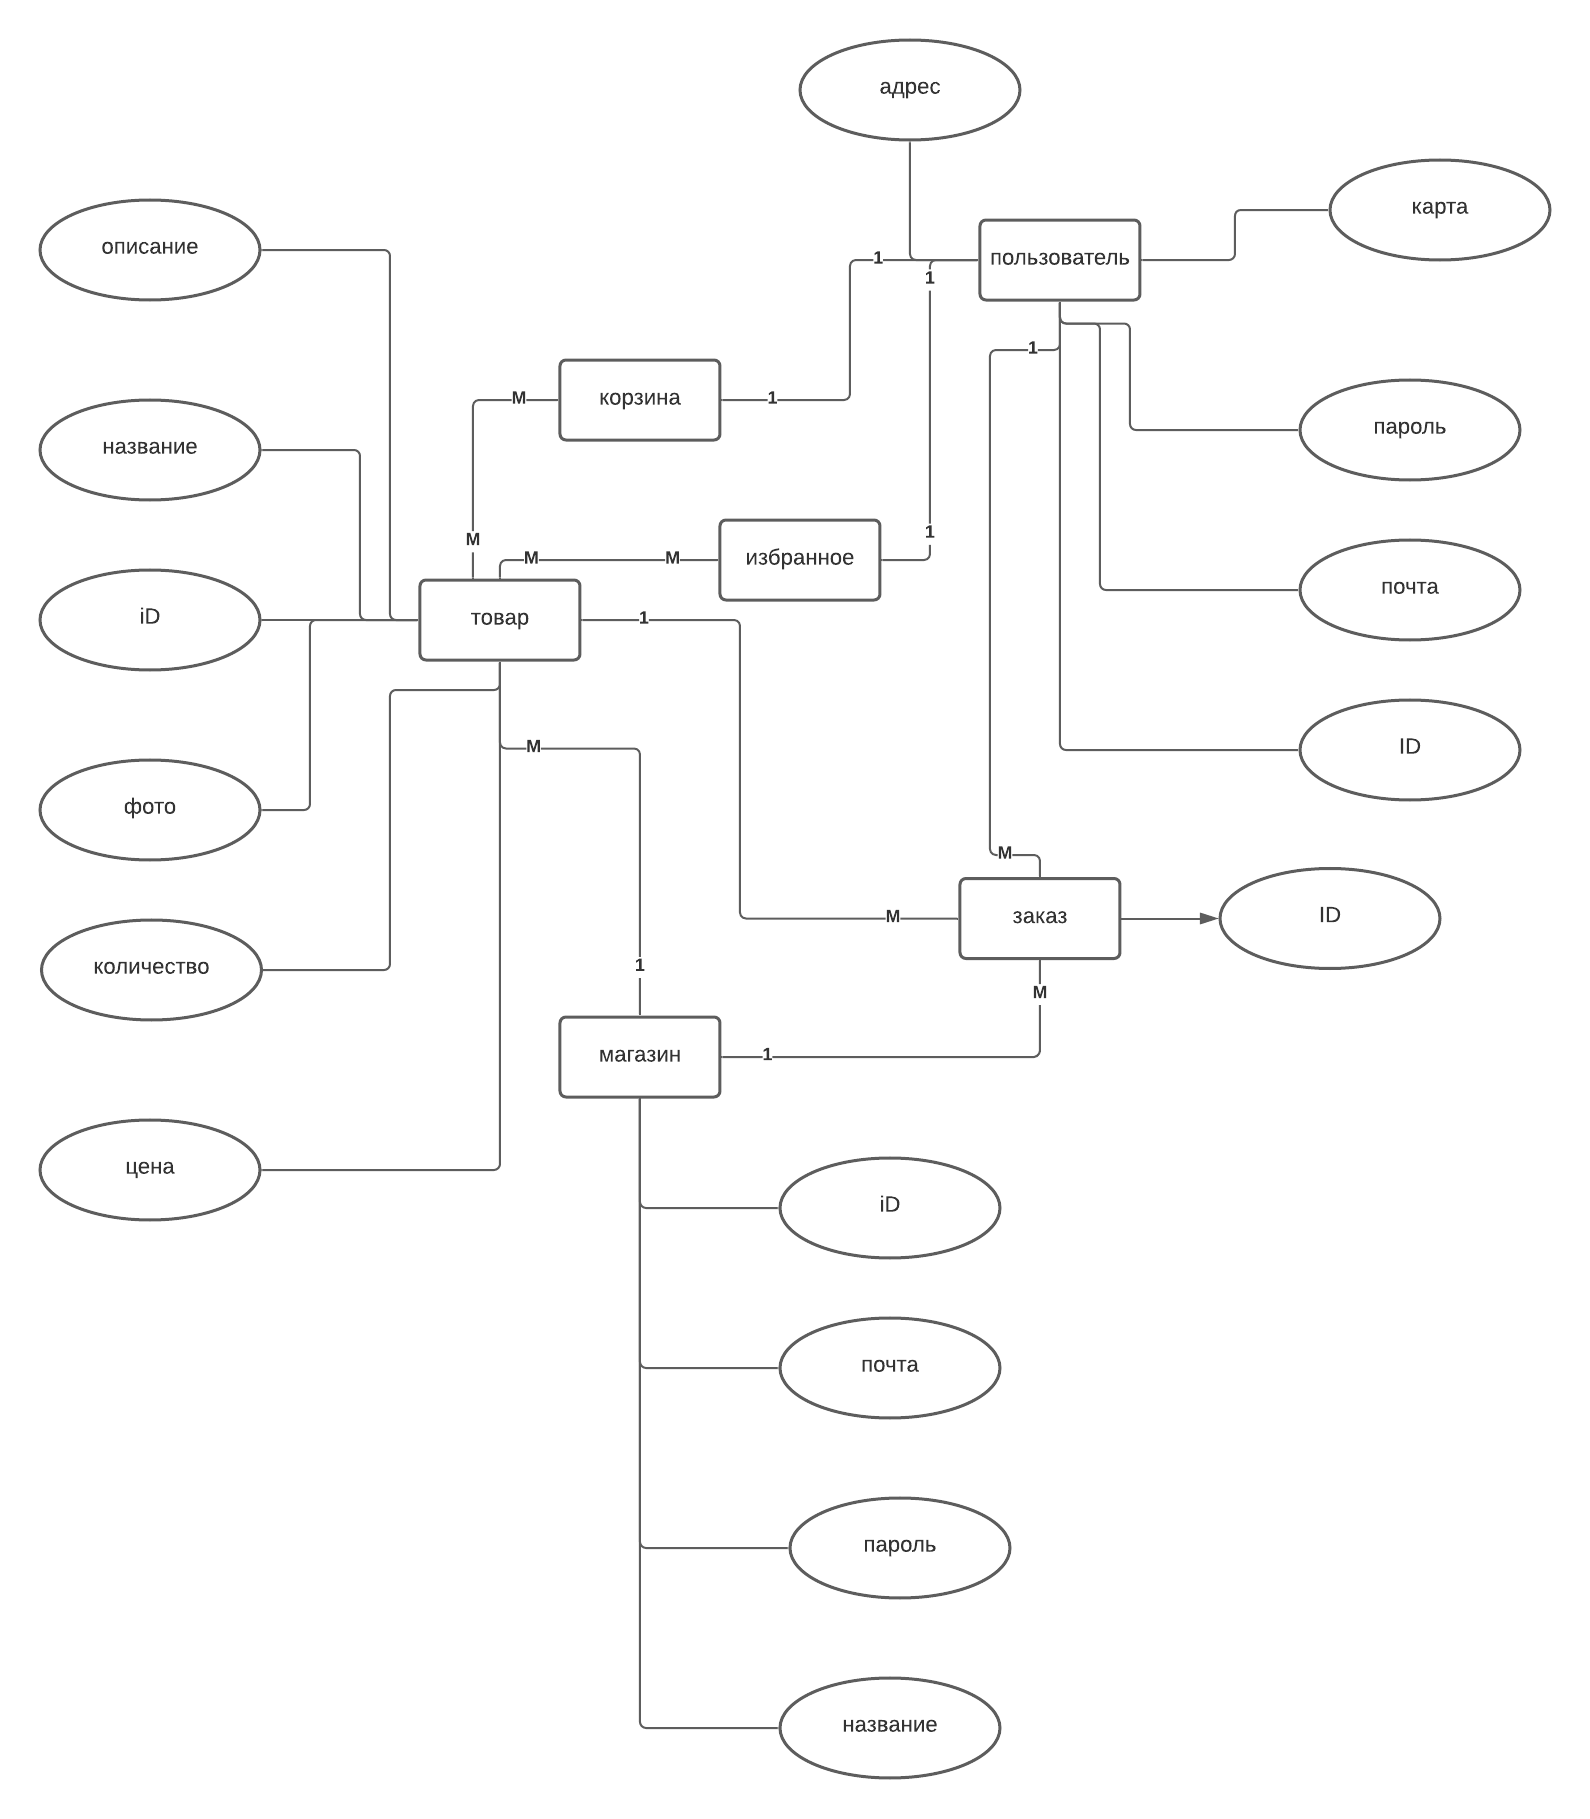
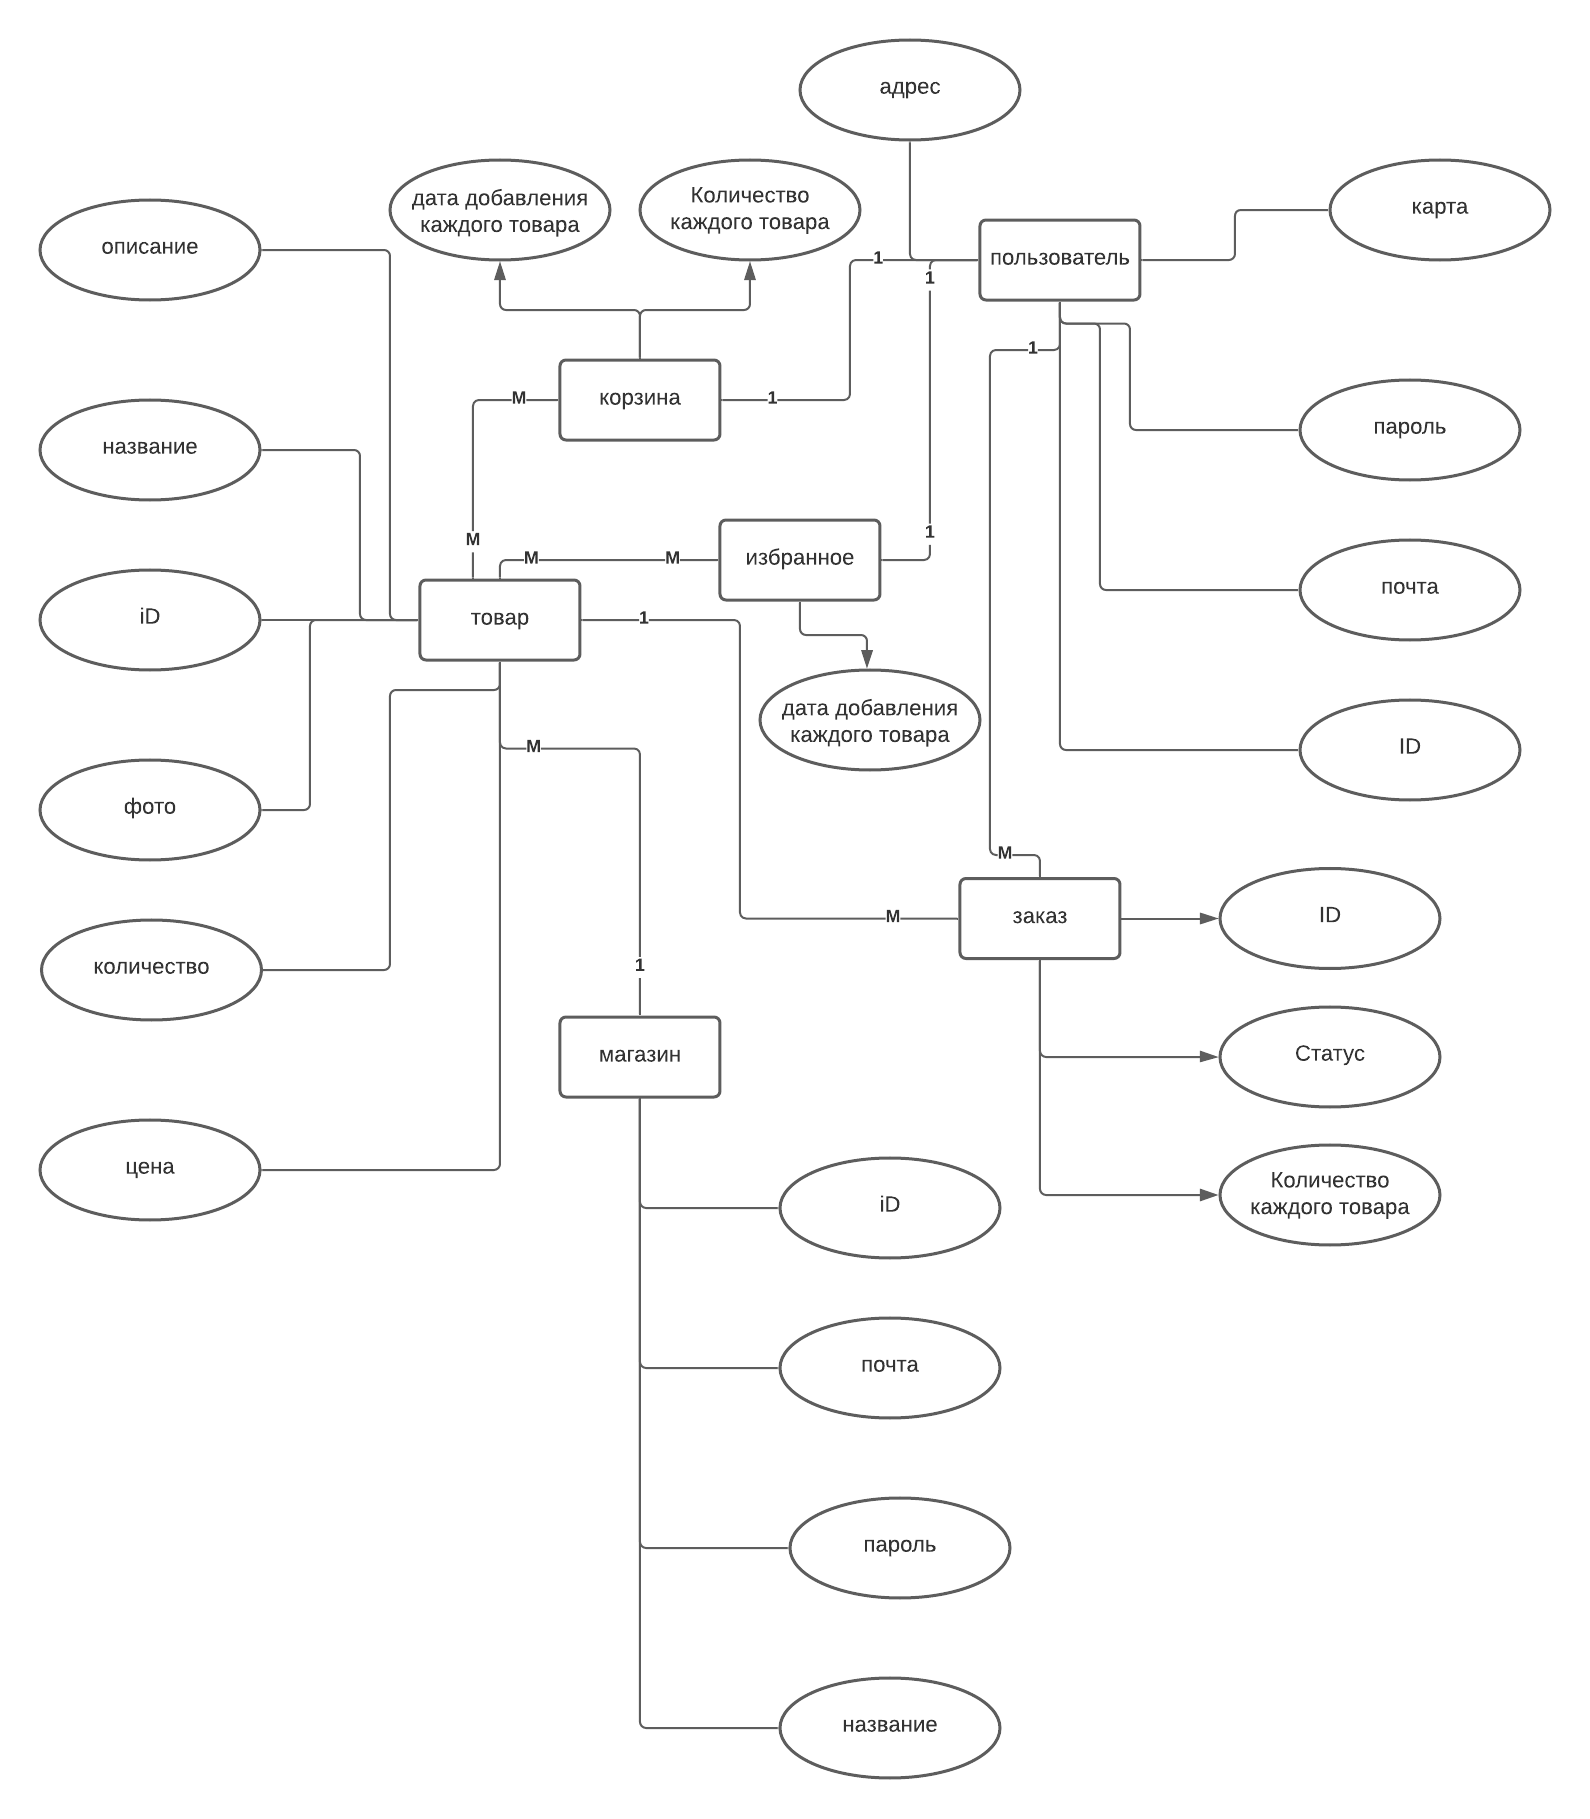
Исправил даталогичемкую диаграмму добавив таблицу для сущностей: избранное корзина и заказ, исправил типы
Сделал список сущностей и список связей

diff --git a/list _of_entities.md b/list _of_entities.md
@@ -1,0 +1,102 @@
+
+<table>
+    <thead>
+        <tr>
+            <th>Сущность</th>
+            <th>Свойство</th>
+            <th>Комментарии</th>
+        </tr>
+    </thead>
+    <tbody>
+        <tr>
+            <td rowspan=5>Пользователь</td>
+            <td>ID</td>
+            <td>Идентификационный номер пользователя, primary key</td>
+        </tr>
+        <tr>
+            <td>Почта</td>
+            <td>Электронная почта по которой запегистрирован пользователь</td>
+        </tr>
+        <tr>
+            <td>Пароль</td>
+            <td>Пароль от аккаунта пользователя</td>
+        </tr>
+        <tr>
+            <td>Карта</td>
+            <td>Карта пользователя, которой он платит</td>
+        </tr>
+        <tr>
+            <td>Адрес</td>
+            <td>Адрес, который указал пользователь, чтобы туда доставили заказ</td>
+        </tr>
+        <tr>
+            <td rowspan=6>Товар</td>
+            <td>ID</td>
+            <td>Идентификационный номер товара, primary key</td>
+        </tr>
+        <tr>
+            <td>Название</td>
+            <td>Название товара</td>
+        </tr>
+        <tr>
+            <td>Описание</td>
+            <td>Описание товара</td>
+        </tr>
+        <tr>
+            <td>Фото</td>
+            <td>Фото товара</td>
+        </tr>
+        <tr>
+            <td>Количество</td>
+            <td>Сколько в магазине осталось единиц товара</td>
+        </tr>
+        <tr>
+            <td>Цена</td>
+            <td>Цена одной единицы товара</td>
+        </tr>
+        <tr>
+            <td rowspan=4>Магазин</td>
+            <td>ID</td>
+            <td>Идентификационный номер магазина, primary key</td>
+        </tr>
+        <tr>
+            <td>Почта</td>
+            <td>Электронная почта, под которой зарегистрирован магазин</td>
+        </tr>
+        <tr>
+            <td>Пароль</td>
+            <td>Пароль от аккаунта магазина</td>
+        </tr>
+        <tr>
+            <td>Названиие</td>
+            <td>Названиие магазина</td>
+        </tr>
+        <tr>
+            <td rowspan=2>Корзина</td>
+            <td>Дата добавления каждого товара</td>
+            <td>Когда пользователь добавил в корзину товар</td>
+        </tr>
+        <tr>
+            <td>Количество каждого товара</td>
+            <td>Сколько единиц каждого товара в корзине у пользователя</td>
+        </tr>
+        <tr>
+            <td>Избранное</td>
+            <td>Дата добавления каждого товара</td>
+            <td>Когда пользователь добавил в избранное товар</td>
+        </tr>
+        <tr>
+            <td rowspan=3>Заказ</td>
+            <td>ID</td>
+            <td>Идентификационный номер заказа</td>
+        </tr>
+        <tr>
+            <td>Статус</td>
+            <td>На каком этапе заказ, по близости к покупателю</td>
+        </tr>
+        <tr>
+            <td>Количество каждого товара</td>
+            <td>Сколько единиц каждого товара в заказе</td>
+        </tr>
+    </tbody>
+</table>

diff --git a/entity_relationships.md b/entity_relationships.md
@@ -1,0 +1,44 @@
+<table>
+    <thead>
+        <tr>
+            <th>Связь</th>
+            <th>Сущности</th>
+            <th>Описание</th>
+        </tr>
+    </thead>
+    <tbody>
+        <tr>
+            <td>Изменят, смотрит</td>
+            <td>Пользователь, избранное</td>
+            <td>Пользователь изменяет избранное, добавляя или удаляя товары</td>
+        </tr>
+        <tr>
+            <td>Изменят, смотрит, оформляет заказ</td>
+            <td>Пользователь, корзина</td>
+            <td>Пользователь изменяет корзину, добавляя или удаляя товары, пользователь может сделать заказ из корзины</td>
+        </tr>
+        <tr>
+            <td>Получает</td>
+            <td>Пользователь, заказ</td>
+            <td>Пользвоатель получает заказ</td>
+        </tr>
+        <tr>
+            <td rowspan=3>Находится в</td>
+            <td>Товар, избранное</td>
+            <td>Товар находиться в избранном</td>
+        </tr>
+        <tr>
+            <td>Товар, корзина</td>
+            <td>Товар находиться в корзине</td>
+        </tr>
+        <tr>
+            <td>Товар, заказ</td>
+            <td>Товар находиться в заказе</td>
+        </tr>
+        <tr>
+            <td>имеет в ассортименте</td>
+            <td>Магазин, товар</td>
+            <td>Магазин имеет в ассортименте товар</td>
+        </tr>
+    </tbody>
+</table>
